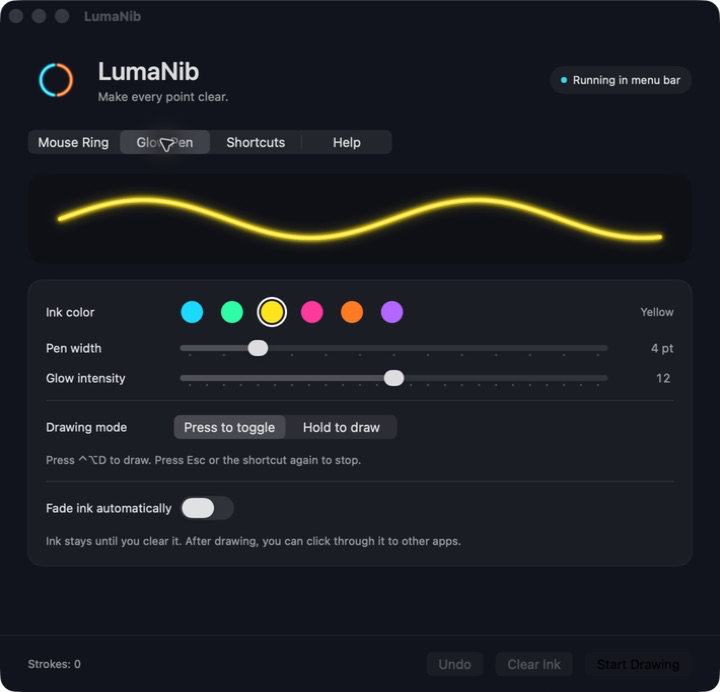
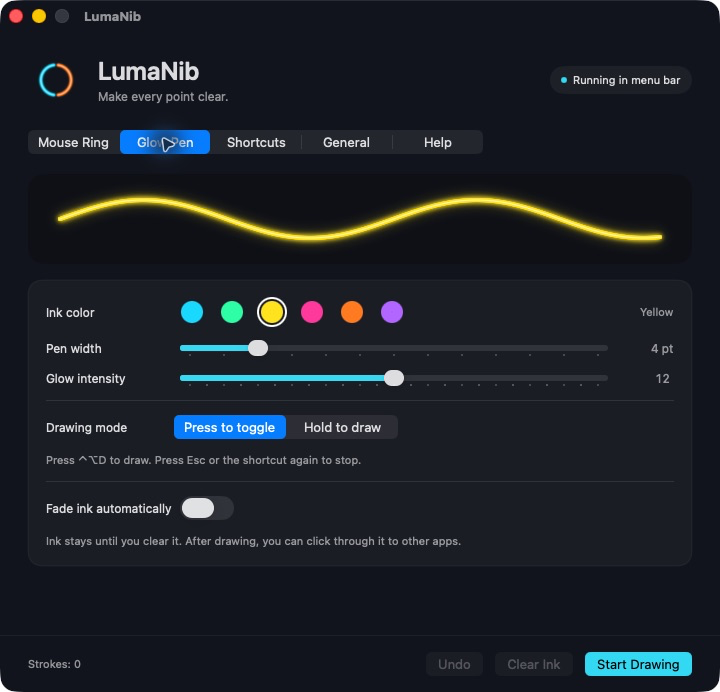
Release LumaNib 1.59 with optional launch at login

diff --git a/README.md b/README.md
@@ -19,18 +19,18 @@
 | :---: | :---: |
 | <img src="assets/macos-ring-en.png" width="440" alt="LumaNib Mac settings showing independent ring colors, size and thickness"> | <img src="assets/macos-pen-en.png" width="440" alt="LumaNib Mac settings showing pen color, width, glow and drawing mode"> |
 
-*Actual macOS settings windows in English, captured from an isolated language preview of version 1.58. The banner is a brand illustration. Windows screenshots will be added after device testing.*
+*Actual macOS settings windows in English, captured from an isolated language preview of version 1.59. The banner is a brand illustration. Windows screenshots will be added after device testing.*
 
 ## Downloads & availability
 
-**Current version: 1.58.** [Open the release hub →](https://github.com/GongWenAI/LumaNib/releases)
+**Current version: 1.59.** [Open the release hub →](https://github.com/GongWenAI/LumaNib/releases)
 
 | Platform | Package | Requirements | Current validation |
 | :--- | :--- | :--- | :--- |
-| **Mac · Apple Silicon** | [LumaNib-1.58-macOS-arm64.zip](https://github.com/GongWenAI/LumaNib/releases/download/v1.58/LumaNib-1.58-macOS-arm64.zip) | macOS 14+, M-series chip | Used on M2 / macOS 26.5; Chinese and English settings checked |
-| **Windows · Preview** | [LumaNib-1.58-Windows-x64.zip](https://github.com/GongWenAI/LumaNib/releases/download/v1.58/LumaNib-1.58-Windows-x64.zip) | Windows 10 1809+ or Windows 11; Intel/AMD x64 | Cross-built with logic checks; native Windows operation and OBS capture still await testing |
+| **Mac · Apple Silicon** | [LumaNib-1.59-macOS-arm64.zip](https://github.com/GongWenAI/LumaNib/releases/download/v1.59/LumaNib-1.59-macOS-arm64.zip) | macOS 14+, M-series chip | Used on M2 / macOS 26.5; Chinese and English settings checked |
+| **Windows · Preview** | [LumaNib-1.59-Windows-x64.zip](https://github.com/GongWenAI/LumaNib/releases/download/v1.59/LumaNib-1.59-Windows-x64.zip) | Windows 10 1809+ or Windows 11; Intel/AMD x64 | Cross-built with logic checks; native Windows operation and OBS capture still await testing |
 
-> Version 1.58 is available from GitHub Releases as a desktop preview. The Windows build still awaits device testing. No app-store listing is currently available.
+> Version 1.59 is available from GitHub Releases as a desktop preview. The Windows build still awaits device testing. No app-store listing is currently available.
 
 Extract the full package before opening the app. The Windows package includes its runtime: keep all files together. The Mac build uses an ad hoc signature and is not Apple-notarized; neither package has commercial code signing. Device coverage and long recording sessions remain unverified.
 
@@ -51,6 +51,10 @@ Extract the full package before opening the app. The Windows package includes it
 
 Customize these in **Shortcuts** by clicking a field and pressing your combination. Chinese system languages show a Chinese interface; all other languages use English. Restart LumaNib after changing the system language.
 
+**New in 1.59:** enable **General → Launch at login** to start quietly in the menu bar or tray after signing in. It is off by default. [Setup and location notes](docs/GETTING_STARTED.md#launch-at-login).
+
+<img src="assets/macos-general-en.png" width="720" alt="LumaNib 1.59 General settings with Launch at login switched off">
+
 ## Local by design
 
 No account, ads or analytics are built into the current desktop app. Mouse input and shortcut events are processed locally to provide the effects. Ink is held in memory; appearance and shortcut preferences are saved on your computer. Windows can also save a local error log and optional self-test output. Clicking a project link opens GitHub in your browser.
@@ -61,7 +65,7 @@ Read the [privacy statement](docs/PRIVACY.md) for the scope of local storage and
 
 - [Quick start & recording tips](docs/GETTING_STARTED.md)
 - [Help, troubleshooting & feedback](SUPPORT.md)
-- [What's in 1.58](CHANGELOG.md)
+- [What's in 1.59](CHANGELOG.md)
 - [Platform plans](docs/ROADMAP.md)
 
 **© 2026 宫文. All rights reserved.** Free use does not grant an open-source or resale license. Third-party runtimes retain their own licenses, included with the Windows package.

diff --git a/README.zh-CN.md b/README.zh-CN.md
@@ -19,18 +19,18 @@
 | :---: | :---: |
 | <img src="assets/macos-ring-en.png" width="440" alt="Mac 圆环设置：左右颜色、大小与粗细"> | <img src="assets/macos-pen-en.png" width="440" alt="Mac 画笔设置：笔迹颜色、粗细、发光及绘制模式"> |
 
-*上图来自 1.58 版的 macOS 英文界面独立预览，是真实窗口截图；顶部横幅为品牌示意图。中文系统自动显示中文。Windows 截图将在实机测试后补充。*
+*上图来自 1.59 版的 macOS 英文界面独立预览，是真实窗口截图；顶部横幅为品牌示意图。中文系统自动显示中文。Windows 截图将在实机测试后补充。*
 
 ## 下载与可用状态
 
-**当前版本：1.58。** [打开 Releases 发布页 →](https://github.com/GongWenAI/LumaNib/releases)
+**当前版本：1.59。** [打开 Releases 发布页 →](https://github.com/GongWenAI/LumaNib/releases)
 
 | 平台 | 文件名 | 系统要求 | 当前验证情况 |
 | :--- | :--- | :--- | :--- |
-| **Mac · Apple Silicon** | [LumaNib-1.58-macOS-arm64.zip](https://github.com/GongWenAI/LumaNib/releases/download/v1.58/LumaNib-1.58-macOS-arm64.zip) | macOS 14 及以上，M 系列芯片 | 已在 M2 / macOS 26.5 上使用，并核对中英文设置界面 |
-| **Windows · 测试版** | [LumaNib-1.58-Windows-x64.zip](https://github.com/GongWenAI/LumaNib/releases/download/v1.58/LumaNib-1.58-Windows-x64.zip) | Windows 10 1809 及以上或 Windows 11；Intel/AMD 64 位 | 已交叉编译并完成逻辑检查，Windows 实际操作和 OBS 实录仍待测试 |
+| **Mac · Apple Silicon** | [LumaNib-1.59-macOS-arm64.zip](https://github.com/GongWenAI/LumaNib/releases/download/v1.59/LumaNib-1.59-macOS-arm64.zip) | macOS 14 及以上，M 系列芯片 | 已在 M2 / macOS 26.5 上使用，并核对中英文设置界面 |
+| **Windows · 测试版** | [LumaNib-1.59-Windows-x64.zip](https://github.com/GongWenAI/LumaNib/releases/download/v1.59/LumaNib-1.59-Windows-x64.zip) | Windows 10 1809 及以上或 Windows 11；Intel/AMD 64 位 | 已交叉编译并完成逻辑检查，Windows 实际操作和 OBS 实录仍待测试 |
 
-> 1.58 桌面预览版已在 GitHub Releases 提供下载。Windows 版仍待实机测试，目前还没有应用商店上架链接。
+> 1.59 桌面预览版已在 GitHub Releases 提供下载。Windows 版仍待实机测试，目前还没有应用商店上架链接。
 
 请完整解压再打开。Windows 包自带运行库，需保留同目录全部文件。Mac 包使用临时签名，未做 Apple 公证；两个包均未做商业代码签名。尚未覆盖所有设备和长时间录制场景。
 
@@ -51,6 +51,10 @@
 
 在“全局快捷键”中点击输入框，直接按下自己的组合即可修改。中文系统语言显示中文，其他语言显示英文；更改系统语言后重启 LumaNib 生效。
 
+**1.59 新增：** 在**“通用 → 登录后自动启动”**中开启，登录后自动在菜单栏或托盘运行，不弹设置窗口，默认关闭。[设置方法与存放位置说明](docs/GETTING_STARTED.md#登录后自动启动)。
+
+<img src="assets/macos-general-en.png" width="720" alt="LumaNib 1.59 通用设置，登录启动默认关闭">
+
 ## 在本机运行
 
 当前桌面版没有内置账号、广告或统计分析服务。鼠标与快捷键事件在本机处理，笔迹保存在运行内存中，外观和快捷键设置保存在电脑上。Windows 还可能保存本地错误日志，以及主动运行自检时产生的结果。点击项目链接会通过浏览器打开 GitHub。
@@ -61,7 +65,7 @@
 
 - [完整使用说明与录屏建议](docs/GETTING_STARTED.md#简体中文)
 - [常见问题与反馈入口](SUPPORT.md#简体中文)
-- [1.58 版本内容](CHANGELOG.md)
+- [1.59 版本内容](CHANGELOG.md)
 - [平台计划](docs/ROADMAP.md)
 
 **© 2026 宫文。保留所有权利。** 免费使用不代表授予开源许可或转售许可。第三方运行库依各自许可证提供，相关声明随 Windows 下载包附带。

diff --git a/docs/GETTING_STARTED.md b/docs/GETTING_STARTED.md
@@ -4,7 +4,7 @@
 
 ## Install and open
 
-Download the package for your platform from the [v1.58 release](https://github.com/GongWenAI/LumaNib/releases/tag/v1.58). The Windows build is a preview awaiting device testing.
+Download the package for your platform from the [v1.59 release](https://github.com/GongWenAI/LumaNib/releases/tag/v1.59). The Windows build is a preview awaiting device testing.
 
 - **Mac:** Apple Silicon, macOS 14 or later. Extract the ZIP and open `LumaNib.app`.
 - **Windows:** Intel/AMD x64, Windows 10 version 1809 or later, or Windows 11. Extract the entire ZIP and open `LumaNib.exe`. The included runtime files must stay beside it; no separate .NET installation is needed.
@@ -29,6 +29,12 @@ Open Shortcuts, click a field, press a combination, then choose Apply Shortcuts.
 
 LumaNib uses your preferred system interface language: Chinese languages show Simplified Chinese, and other languages show English. Restart the app after changing the language. Language changes do not reset your colors or shortcuts.
 
+## Launch at login
+
+In **General**, turn on **Launch at login**. It is off by default. Once enabled, LumaNib starts after you sign in and stays in the menu bar or tray without opening settings. Turn it off to remove the entry.
+
+Keep the app in a fixed location: Applications on Mac, or a permanent folder containing the entire Windows package. An external drive must be connected and accessible at login. If you move the Windows folder, use **Update Startup Path** in General. The system can disable startup independently; use the system-settings button on this page to check it. Mac may require approval in Login Items.
+
 ## Record with OBS
 
 LumaNib supplies an overlay, not a recording function. Use full display capture: **macOS Screen Capture → display** on Mac, or **Display Capture** on Windows. A single-window or game capture may omit the overlay. Make a short recording to confirm both ring and ink, and check audio separately.
@@ -43,7 +49,7 @@ Windows exclusive fullscreen, elevated apps and the UAC secure desktop may restr
 
 ## 安装与打开
 
-从作者的 [v1.58 发布页](https://github.com/GongWenAI/LumaNib/releases/tag/v1.58) 获取与你的系统对应的完整压缩包。Windows 版仍是待实机验证的测试版。
+从作者的 [v1.59 发布页](https://github.com/GongWenAI/LumaNib/releases/tag/v1.59) 获取与你的系统对应的完整压缩包。Windows 版仍是待实机验证的测试版。
 
 - **Mac：** macOS 14 及以上、M 系列芯片。完整解压，打开 `LumaNib.app`。
 - **Windows：** Windows 10 1809 及以上或 Windows 11、Intel/AMD 64 位。完整解压，打开 `LumaNib.exe`，保留同目录所有运行库文件，无需另装 .NET。
@@ -67,6 +73,12 @@ Windows exclusive fullscreen, elevated apps and the UAC secure desktop may restr
 在“全局快捷键”中点击输入框，直接按组合，再点“应用快捷键”。Mac 至少包含 Control、Option 或 Command；Windows 至少包含 Ctrl、Alt 或 Win。Esc 保留给退出操作，Windows 的 F12 也不能自定义。被系统或其他软件占用的组合可能无法使用。
 
 软件跟随系统界面语言：中文语言显示简体中文，其余语言显示英文。改完系统语言后重启软件生效，不会重置颜色和快捷键。
+
+## 登录后自动启动
+
+在**“通用”**中打开**“登录后自动启动”**，默认关闭。开启后，登录电脑时会在菜单栏或托盘运行，不弹出设置窗口；关闭开关会移除启动项。
+
+请先把软件放到固定位置：Mac 建议放在“应用程序”，Windows 保留完整解压文件夹。放在外接盘上时，登录时该盘必须已连接并可访问。Windows 文件夹移动后，可在“通用”中点“更新启动路径”。系统可以单独禁用启动项，可用页面里的系统设置按钮检查；Mac 若显示等待允许，需在系统登录项设置中允许。
 
 ## 配合 OBS 录屏
 

diff --git a/docs/PRIVACY.md b/docs/PRIVACY.md
@@ -1,6 +1,7 @@
 # Privacy statement · 隐私说明
 
-**LumaNib 1.58 · Desktop apps · Updated September 14, 2026**  
+**LumaNib 1.59 · Desktop apps · Updated September 14, 2026**
+
 Publisher / 作者：**宫文**  
 [Project](https://github.com/GongWenAI/LumaNib) · [Support](../SUPPORT.md) · [简体中文](#简体中文)
 
@@ -13,6 +14,7 @@ This statement describes the current LumaNib desktop apps for macOS and Windows.
 - **Mouse and shortcut input:** the app reads the cursor position, mouse button state and relevant shortcut events to display the ring, draw ink and respond to commands. Shortcut capture reads the combination you enter into its field. The app does not store a history of your typing.
 - **Ink:** strokes are held in memory while the app runs. Clearing ink, its configured expiry or quitting removes it. There is no built-in ink export or screen recording.
 - **Preferences:** appearance, drawing and shortcut settings are stored locally. Mac uses the app's user preferences; Windows uses `%LOCALAPPDATA%\LumaNib\settings.json`.
+- **Optional login startup:** enabling Launch at login registers the app with macOS Login Items or saves its executable path and background-launch argument in the current user’s Windows startup registry entry. This stays on your computer. Disable the option before removing the app to remove its startup entry.
 - **Diagnostics on Windows:** an application error may create a local `last-error.txt` under `%LOCALAPPDATA%\LumaNib`. If you explicitly run the self-test, it writes generated rendering images and a report under `SelfTest`. These are not screenshots of your desktop. Error logs can contain technical details and local file paths; review them before sharing.
 
 ## Network, accounts and third parties
@@ -33,13 +35,14 @@ Quitting clears in-memory ink. Local preferences and diagnostics remain on your 
 
 ## 适用范围
 
-本说明适用于当前 LumaNib 1.58 的 macOS、Windows 桌面版。未来 Android 版或尚未发布的商店版不在本说明范围内，发布时需按实际功能重新核对。
+本说明适用于当前 LumaNib 1.59 的 macOS、Windows 桌面版。未来 Android 版或尚未发布的商店版不在本说明范围内，发布时需按实际功能重新核对。
 
 ## 电脑上处理的数据
 
 - **鼠标和快捷键：** 为显示圆环、绘制笔迹和响应命令，软件读取鼠标位置、按键状态和相关快捷键事件；录入快捷键时读取你在输入框中按下的组合，不保存日常打字历史。
 - **屏幕笔迹：** 保存在软件运行内存中，清空、设定的淡出结束或退出软件后移除。软件没有笔迹导出或录屏功能。
 - **偏好设置：** 外观、绘制和快捷键设置在本机保存。Mac 使用应用用户偏好设置；Windows 使用 `%LOCALAPPDATA%\LumaNib\settings.json`。
+- **可选登录启动：** 开启后，Mac 向系统登录项登记应用；Windows 在当前用户的启动项注册表中保存程序路径和后台启动参数。这些信息保存在本机。删除软件前请先关闭此选项，以移除对应启动项。
 - **Windows 诊断文件：** 出错时可能在 `%LOCALAPPDATA%\LumaNib` 保存 `last-error.txt`。主动运行自检时，会在 `SelfTest` 下生成渲染测试图和报告，测试图不是桌面截图。错误日志可能包含技术信息和本机路径，请先检查再分享。
 
 ## 联网与第三方

diff --git a/SUPPORT.md b/SUPPORT.md
@@ -11,6 +11,7 @@
 | Ink disappears | Check Fade ink automatically and its delay. Quitting clears ink. |
 | Settings window disappears | LumaNib keeps running in the menu bar or tray when the window is closed. Open it again from the icon. |
 | The language did not change | Restart LumaNib after changing the system interface language. Chinese language settings use Simplified Chinese; all others use English. |
+| Does not launch at login | Enable the option in General, check system startup settings and keep the app at its registered location. External drives must be accessible at login. On Windows, update the startup path after moving the folder. |
 | Windows will not start | Extract all files, check the x64/OS requirements and review `%LOCALAPPDATA%\LumaNib\last-error.txt` if present. Windows device validation is still pending. |
 
 ## Contact and feedback
@@ -32,6 +33,7 @@ Do not attach passwords, activation codes, private recordings or logs you have n
 | 笔迹消失 | 检查是否开启自动淡出，以及保留时间；退出软件也会清除笔迹。 |
 | 设置窗口不见了 | 关闭窗口后仍在菜单栏或托盘运行，通过图标重新打开。 |
 | 语言没有变化 | 改完系统界面语言后重启 LumaNib。中文语言显示简体中文，其他语言显示英文。 |
+| 登录后没有自动运行 | 在“通用”中开启，检查系统登录项或启动应用，并保持程序位置固定。外接盘必须在登录时可访问；Windows 移动文件夹后需更新启动路径。 |
 | Windows 无法启动 | 完整解压，核对 64 位和系统版本要求；若有 `last-error.txt`，可检查本地错误记录。Windows 实机验证仍未完成。 |
 
 通过 [Issues](https://github.com/GongWenAI/LumaNib/issues) 向作者**宫文**反馈。请提供软件版本、系统版本、缩放比例、复现步骤、预期结果和实际结果；需要时附上裁剪后的截图。

diff --git a/CHANGELOG.md b/CHANGELOG.md
@@ -1,5 +1,23 @@
 # LumaNib release notes · 版本记录
 
+## 1.59 — Launch at login · 登录后自动启动
+
+- Added **General → Launch at login** on macOS and Windows, off by default.
+- Login startup runs in the menu bar or tray without opening settings. Manual launches still open settings.
+- Shows registration status and errors, with a shortcut to system startup settings. Windows can update its startup path after the app folder moves.
+- Chinese and English UI and guides updated; existing appearance and shortcut settings retained.
+
+**Validation:** Mac build and 67 assertions passed; Mac login-item registration and removal were exercised on M2 / macOS 26.5. English General settings were visually checked. Windows cross-build and 79 logic/mock tests passed. Actual logout/reboot login and native Windows 10/11 startup remain unverified.
+
+### 简体中文
+
+- Mac 和 Windows 新增“通用 → 登录后自动启动”，默认关闭。
+- 登录后在菜单栏或托盘运行，不弹设置窗口；手动打开仍显示设置。
+- 显示登记状态和错误，并提供系统启动设置入口；Windows 移动目录后可更新启动路径。
+- 更新中英文界面与说明，保留已有外观和快捷键设置。
+
+**验证范围：** Mac 构建及 67 项断言通过，并在 M2 / macOS 26.5 实际开启、关闭登录项，核对英文通用页面。Windows 交叉编译和 79 项逻辑/模拟测试通过。尚未实际注销或重启验证登录启动，也未完成 Windows 10/11 实机测试。
+
 ## 1.58 — Desktop preview
 
 **Release status:** public desktop preview on GitHub Releases; not published to an app store.

diff --git a/docs/ROADMAP.md b/docs/ROADMAP.md
@@ -6,8 +6,8 @@ LumaNib's current product is a desktop mouse-highlighting and screen-pen app. Th
 
 | Platform | Current state | Next milestone |
 | :--- | :--- | :--- |
-| macOS · Apple Silicon | 1.58 desktop build; Chinese and English UI | Evaluate Mac App Store sandbox compatibility, particularly global input and overlay behavior; prepare distribution signing and review materials |
-| Windows · Intel/AMD x64 | 1.58 preview build; Windows 10/11 targets | Test on Windows 10 hardware, then validate Windows 11, scaling and recording behavior |
+| macOS · Apple Silicon | 1.59 desktop build; Chinese and English UI | Evaluate Mac App Store sandbox compatibility, particularly global input and overlay behavior; prepare distribution signing and review materials |
+| Windows · Intel/AMD x64 | 1.59 preview build; Windows 10/11 targets | Test on Windows 10 hardware, then validate Windows 11, scaling and recording behavior |
 | Android · Google Play | Planned separate app; no Android build yet | Define touch/pointer interactions and assess Android overlay and input permissions before implementation |
 
 For a **Mac App Store** submission, Apple requires appropriate sandboxing. The current desktop package is not a store submission build, and equivalent global mouse/keyboard behavior must be tested under those restrictions. See [Apple's Mac App Store requirements](https://developer.apple.com/app-store/review/guidelines/#hardware-compatibility).
